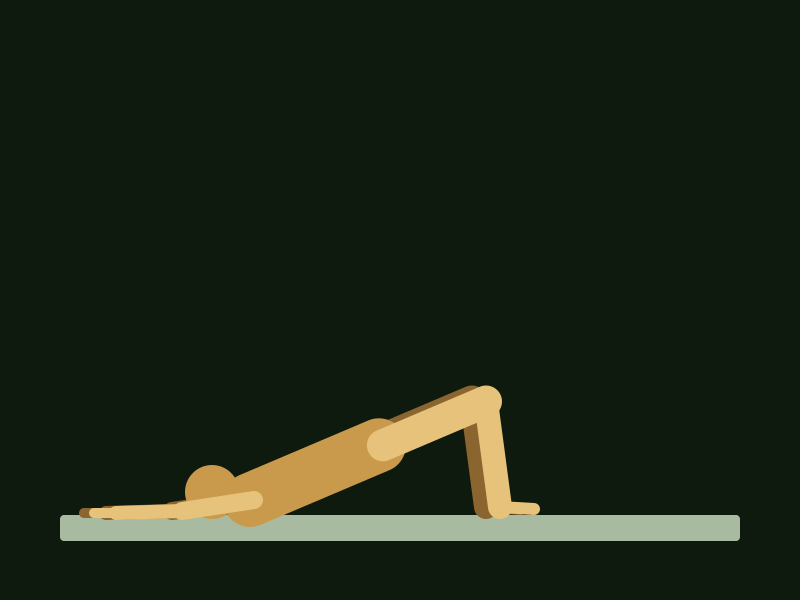
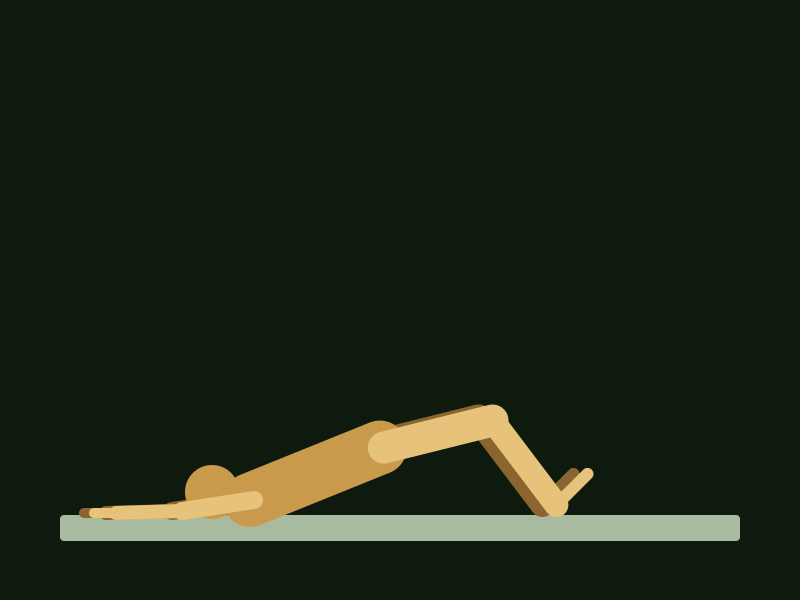
Hipopresivos: Afrodita apoyada en los talones, puntas de los pies arriba
Claude-Session: https://claude.ai/code/session_01PCN3Y7G9UpL9EZ1qjs6atA

diff --git a/lib/hipopresivos/practica.ts b/lib/hipopresivos/practica.ts
@@ -210,7 +210,7 @@ export const POSTURAS: Postura[] = [
     nombre: "Afrodita",
     nivel: "avanzado",
     pasos: [
-      "Acostada boca arriba, rodillas dobladas y pies apoyados.",
+      "Acostada boca arriba, rodillas dobladas, solo los talones apoyados en el suelo y las puntas de los pies hacia el techo.",
       "Levanta la cadera del suelo hasta que rodillas, cadera y hombros queden en una línea.",
       "Brazos estirados por encima de la cabeza, en el suelo.",
     ],

diff --git a/prompts-hipopresivos.md b/prompts-hipopresivos.md
@@ -155,7 +155,7 @@ Style: copy the SECOND attached image exactly. Same flat vector illustration, sa
 Adjunta: `maniquies-hipopresivos/afrodita.png` + `public/hipopresivos/maya.webp`
 
 ```
-Pose: the FIRST attached image is a simple mannequin showing the exact pose; keep the exact position and angle of every limb, the torso and the head, seen exactly from the side, head on the left: she lies on her back on the mat. The knees are bent and the feet are flat on the mat, hip-width apart, close to the buttocks. The hips are lifted high off the mat so the knees, hips and shoulders form one straight diagonal line, like a bridge. The shoulders, upper back and head stay on the mat. Both arms are stretched straight back beyond the head, lying on the mat, palms up.
+Pose: the FIRST attached image is a simple mannequin showing the exact pose; keep the exact position and angle of every limb, the torso and the head, seen exactly from the side, head on the left: she lies on her back on the mat. The knees are bent and the lower legs slant forward, away from her body. Only the heels touch the mat, hip-width apart; the feet are flexed with the toes pointing up toward the ceiling, not flat on the mat. The hips are lifted high off the mat so the knees, hips and shoulders form one straight diagonal line, like a bridge. The shoulders, upper back and head stay on the mat. Both arms are stretched straight back beyond the head, lying on the mat, palms up.
 
 Style: copy the SECOND attached image exactly. Same flat vector illustration, same woman (hair in a low bun, no facial features, sports top and leggings), same two flat tones: light gold for the arm and leg nearest to us, darker bronze for the far arm and leg. Same very dark forest-green background (#0d1a0d), same pale sage-green exercise mat under her, same size of the figure in the frame. Her top and leggings are the same gold and bronze tones as her skin areas, never black or grey. The figure fills about two thirds of the width, never cut off at the edges. No outlines, no gradients, no shadows, no muscle lines. Anatomically correct: two arms, two legs, five fingers on each hand, every joint bending the natural way, nothing floating. Horizontal 4:3, the whole body visible with empty margin all around. Turn the mannequin of the FIRST image into this woman: keep its pose exactly, do not copy its stick shapes. Absolutely no text, letters, numbers, arrows or watermark.
 ```
